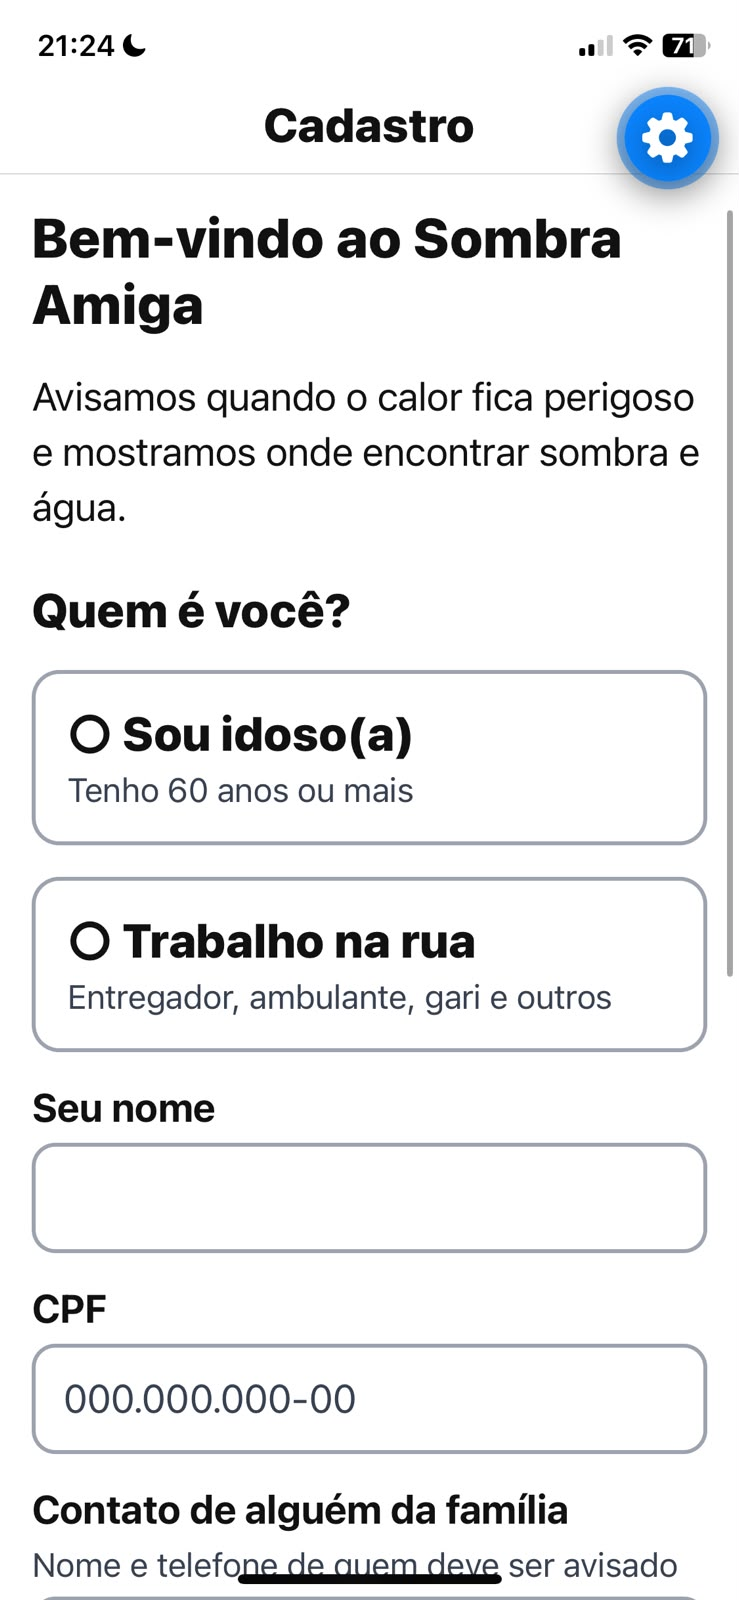
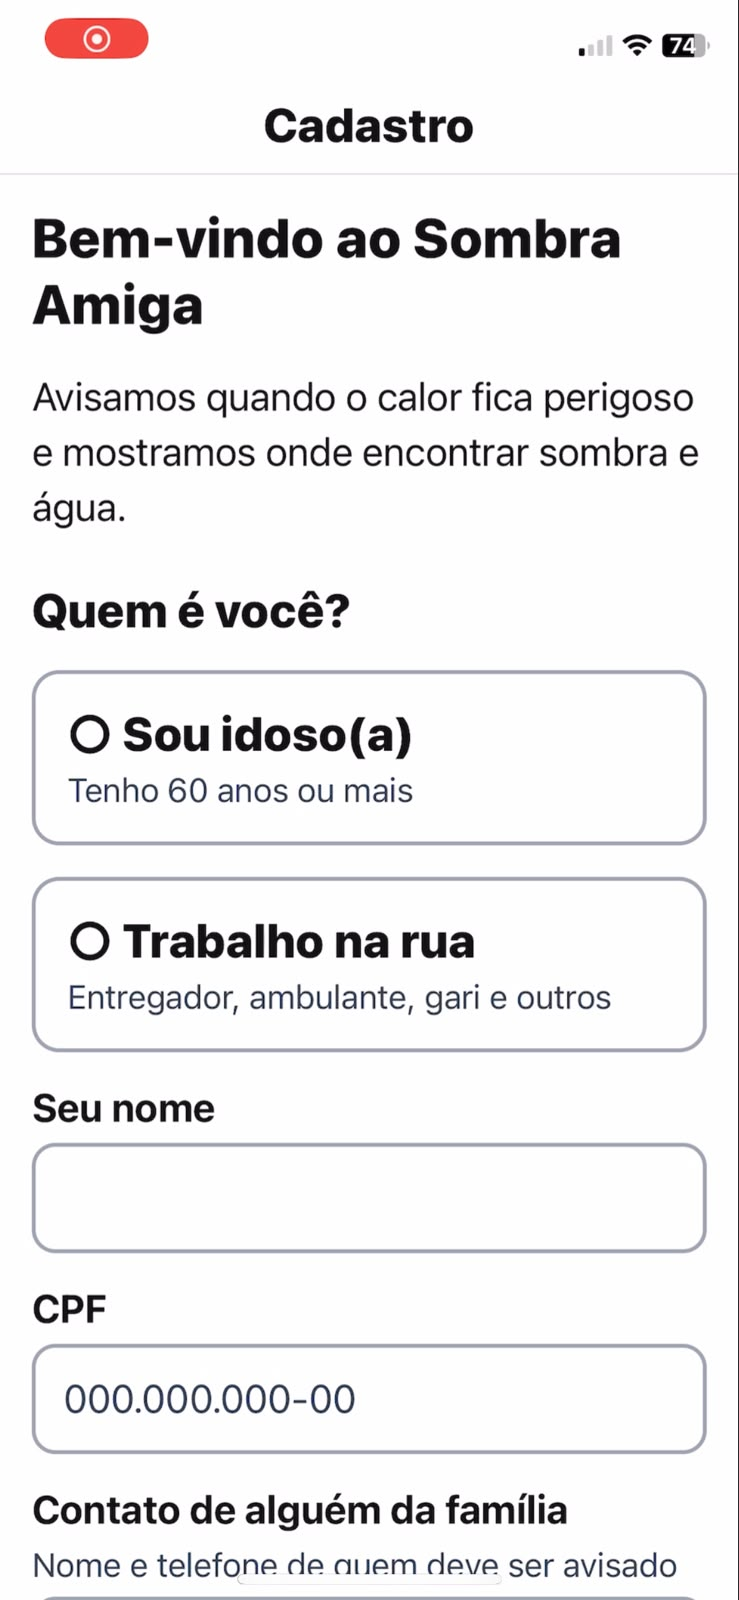
Atualiza prints do app e organiza a documentação
Prints sem a ferramenta do Expo Go e documentação de Cybersecurity reescrita como plano.

diff --git a/docs/cyber-especificacao.md b/docs/cyber-especificacao.md
@@ -1,8 +1,8 @@
-# Cybersecurity: o que dá para extrair dos slides 28 e 29
+# Cybersecurity: plano da missão técnica
 
-Os slides são vagos. A coluna "Nossa leitura" é interpretação da equipe, não uma instrução do professor.
+Como a equipe interpreta cada item da missão técnica (slides 28 e 29 do Kick Off) e o que será construído para atendê-lo.
 
-| O que o slide diz | Pontos | Nossa leitura | O que vamos construir |
+| O que o slide diz | Pontos | Interpretação | O que vamos construir |
 |---|---|---|---|
 | "Configurar novas regras no motor de parsing para detectar dados sensíveis (CPF, saúde, senhas)" | 3,0 | Analisar o código e achar onde há dados pessoais | Regras em arquivo de configuração, por nome de campo e por padrão de valor |
 | "Rastrear o fluxo das informações coletadas e bloquear vazamentos em saídas inseguras" | 3,0 | Seguir o dado da entrada até uma saída perigosa | Mapa de entradas, saídas e tratamentos, com falha da verificação quando houver vazamento |
@@ -33,7 +33,6 @@ Para mostrar a ferramenta em ação, a auditoria usa um exemplo de vazamento ide
 - Análise simples, dentro de cada método. O objetivo é funcionar bem em poucos casos.
 - Risco Cidadão: soma de sensibilidade do dado × exposição da saída, normalizada de 0 a 100. A fórmula é definida pela equipe e documentada.
 
-## Em aberto
+## Ponto de partida
 
-- A equipe não fez o checkpoint anterior, a plataforma com login, então não há código para reaproveitar. A ferramenta será construída do zero.
-- As demais dúvidas estão em [duvidas-professores.md](duvidas-professores.md).
+A ferramenta é construída do zero, na pasta `cyber/`, e analisa o código do próprio protótipo do Sombra Amiga.

diff --git a/README.md b/README.md
@@ -33,7 +33,7 @@ CitizenTech da Global Solution 2026.2, FIAP, Engenharia de Software, 3º ano.
 | [ml/](ml/) | Previsão de risco de calor | IA & Machine Learning |
 | [infra/](infra/) | Provisionamento Linux | Operating Systems |
 | [cyber/](cyber/) | PII, Taint Analysis, Risco Cidadão | Cybersecurity |
-| [docs/](docs/) | Pesquisa, evidências, dúvidas | Todas |
+| [docs/](docs/) | Pesquisa, evidências, plano de Cybersecurity e Testing | Todas |
 
 ## Pesquisa sobre o cidadão
 

diff --git a/cyber/README.md b/cyber/README.md
@@ -1,3 +1,3 @@
 # Cybersecurity
 
-Detecção de dados pessoais (PII), Taint Analysis e dashboard de Risco Cidadão. O escopo depende do que for confirmado com o professor (ver docs/duvidas-professores.md).
+Detecção de dados pessoais (PII), Taint Analysis e dashboard de Risco Cidadão. O plano está em [docs/cyber-especificacao.md](../docs/cyber-especificacao.md).

diff --git a/mobile/README.md b/mobile/README.md
@@ -91,7 +91,7 @@ src/
 
 ## Prints das telas
 
-Tirados no iPhone, com o app aberto pelo Expo Go e dados fictícios. O botão azul de engrenagem é a ferramenta de desenvolvimento do Expo Go, e não faz parte do app.
+Tirados no iPhone, com o app aberto pelo Expo Go e dados fictícios.
 
 | Cadastro | CPF inválido | Risco de calor | Estou bem |
 |---|---|---|---|
